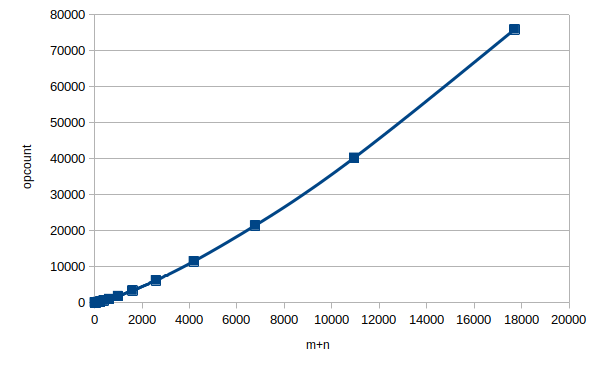
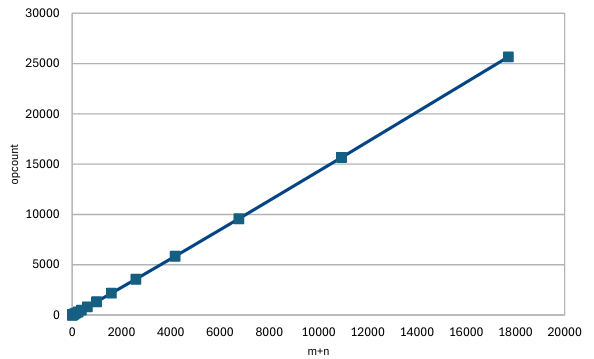
fixed ex2

diff --git a/Lab 2/gcd_via_prime_factorization.c b/Lab 2/gcd_via_prime_factorization.c
@@ -1,28 +1,53 @@
 #include<stdio.h>
 #include<stdlib.h>
 
-int isPrime(int x, int* opcount) {
-    for(int i = 2; i*i <= x; i++) {
+int* sieve_of_eratosthenes(int n, int* pCount, int* opcount) {
+    int* arr = (int*)calloc((n-1),sizeof(int));
+    int count = 0;
+
+    for(int i = 0; (i+2)*(i+2) <= n; i++) {
         (*opcount)++;
-        if(x%i == 0) return 0;
+        int num = i+2;
+        if (arr[i] == 0) {
+            for(int j = num * num; j <= n; j += num) {
+                (*opcount)++;
+                arr[j-2] = 1;
+            }
+        }
     }
-    return 1;
+    
+    for(int i = 0; i < n - 1; i++) {
+        (*opcount)++;
+        if(arr[i] == 0) count++;
+    }
+
+    int* primes = (int*)malloc(count*sizeof(int));
+    int index = 0;
+    for(int i = 0; i < n - 1; i++) {
+        (*opcount)++;
+        if(arr[i] == 0) primes[index++] = i + 2;
+    }
+
+    free(arr);
+    *pCount = count;
+    return primes;
 }
 
 int gcd(int a, int b, int* opcount) {
     (*opcount)++;
-    int x = a<b?a:b, result = 1;
-    for(int i = 2; i < x; i++) {
+    int x = a<b?a:b, result = 1, pCount;
+    int* arr = sieve_of_eratosthenes(x,&pCount,opcount);
+
+    for(int i = 0; i < pCount; i++) {
         (*opcount)++;
-        if(isPrime(i,opcount)) {
-            if(a%i == 0 && b%i == 0) {
-                result *= i;
-                a /= i;
-                b /= i;
-                i--;
-            }
+        if(a%arr[i] ==0 && b%arr[i] == 0) {
+            result *= arr[i];
+            a /= arr[i];
+            b /= arr[i];
+            i--;
         }
     }
+
     return result;
 }
 
@@ -41,5 +66,5 @@ Enter two numbers to calculate GCD (do not enter 0 or lesser): 12 16
 GCD is 4
 
 Time efficiency:
-This is quite an inefficient GCD algorithm to compute since every element has to be checked if it's prime and then further checked whether it's a factor of both inputs. It has a time complexity of O(N^(3/2)) where N is the minimum of the two inputs, making it more inefficient than the consecutive integer checking method.
+This is quite an inefficient GCD algorithm to compute since the sieve of Eratosthenes has to be implemented to generate all required prime numbers and then further each one has to be checked whether it is a factor of both inputs.
 */
